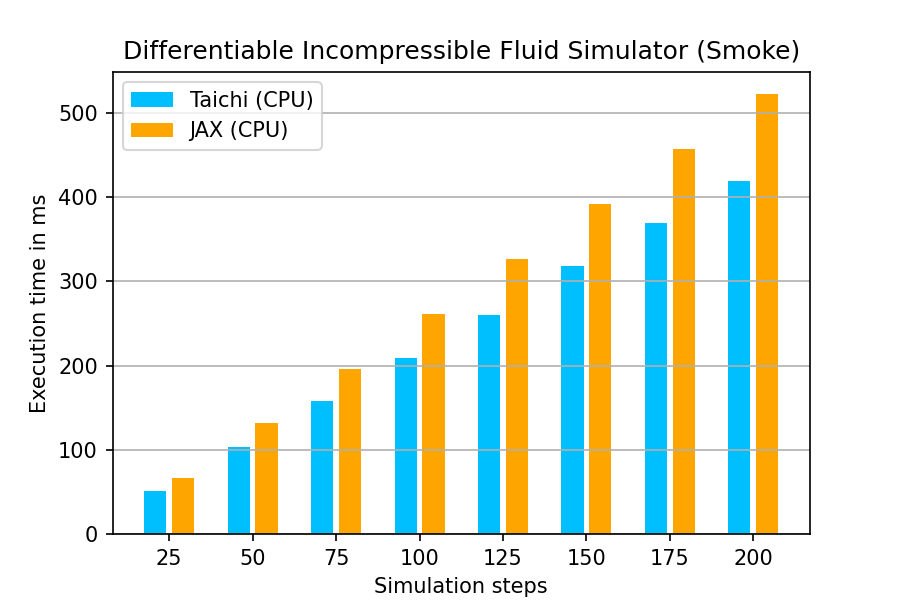
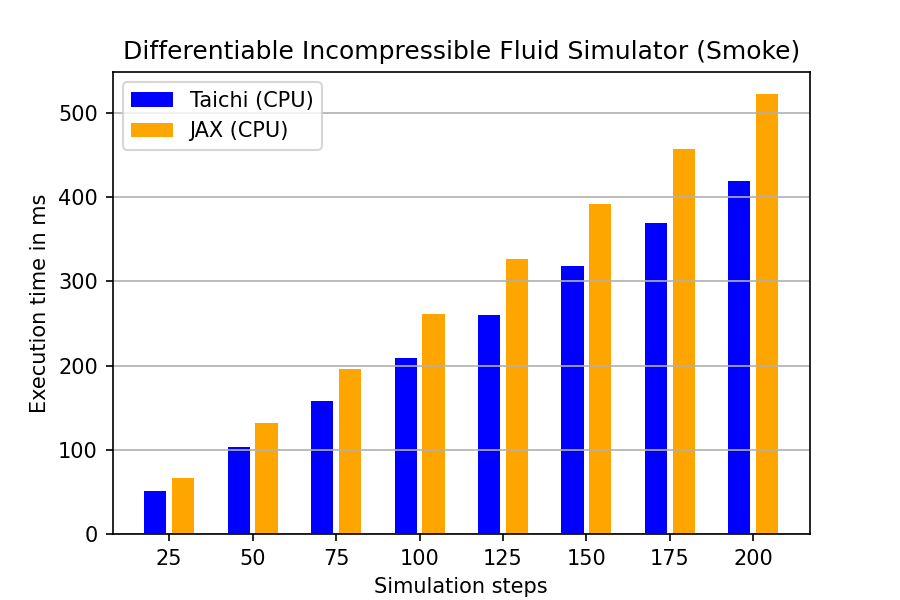
Update plot

diff --git a/diff-taichi/plot_benchmark.py b/diff-taichi/plot_benchmark.py
@@ -144,7 +144,7 @@ def plot_bar(jax_results, taichi_results, plot_series):
 
     # series
     bar_pos = [i * 3 for i in range(len(x_jax))]
-    ax.bar(bar_pos, y_taichi, color='deepskyblue')
+    ax.bar(bar_pos, y_taichi, color='blue')
 
     bar_pos = [i * 3 + 1 for i in range(len(x_taichi))]
     ax.bar(bar_pos, y_jax, color='orange')
@@ -170,7 +170,7 @@ if __name__ == '__main__':
     except FileExistsError:
         pass
 
-    plot_series = "cpu" # choose to plot cpu or gpu
+    plot_series = "gpu" # choose to plot cpu or gpu
     if len(sys.argv) >= 2 and sys.argv[1] == "sample":
         taichi_results = taichi_results
         jax_results = {**jax_cpu_results, **jax_gpu_results}

diff --git a/diff-taichi/src/jax/benchmark.py b/diff-taichi/src/jax/benchmark.py
@@ -1,5 +1,5 @@
 import numpy as np
-from smoke_jax import run_smoke as run_smoke_jax
+from .smoke_jax import run_smoke as run_smoke_jax
 
 
 def benchmark():
